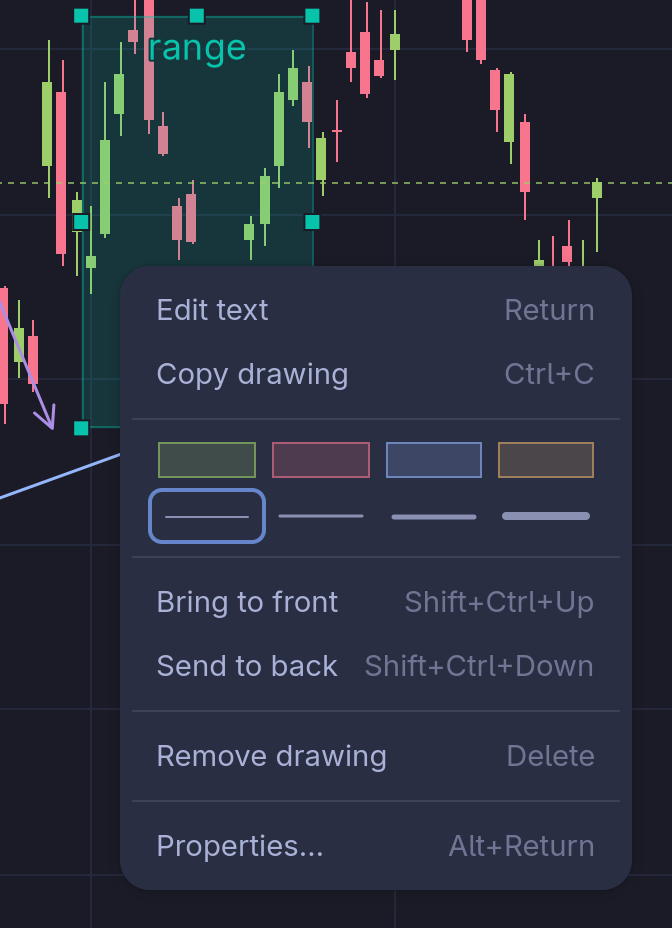
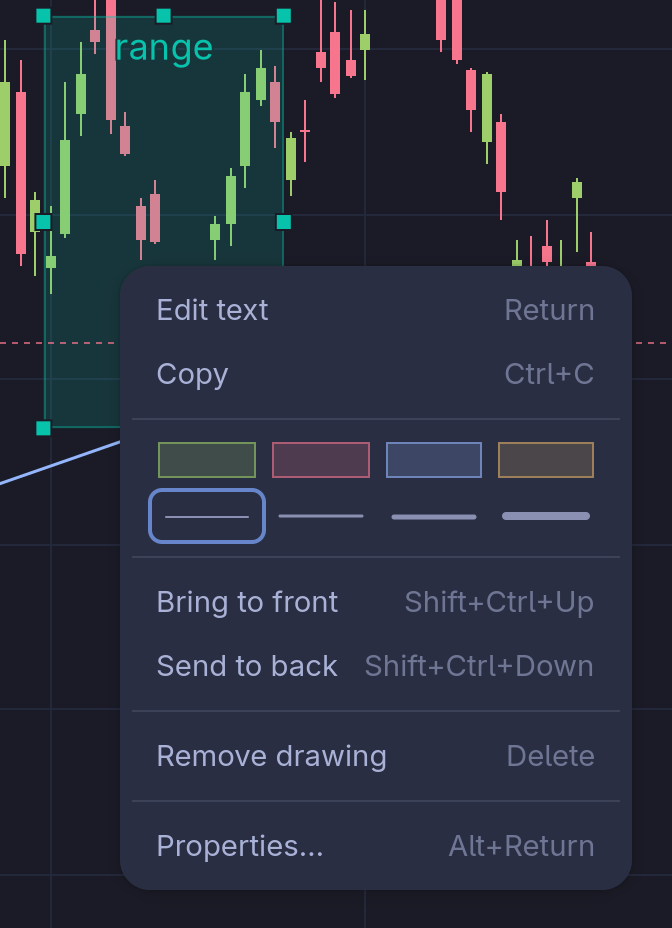
Show a selected indicator in the manual, and the drawing menu's Copy

diff --git a/site/manual/indicators.md b/site/manual/indicators.md
@@ -176,6 +176,23 @@ Click an indicator on the chart to select it: a line, a bar of the volume strip 
 
 A selected indicator glows in its own colour, under the lines and bars it draws, and each of its lines wears a dot at its latest value. A volume profile is outlined instead. Its name in the legend is at full strength with a ring round its dot, and a strip's name takes its colour.
 
+<!-- regenerate:
+theme: tokyo-night
+window: 2560x1440 @2, bin/headless-window (HOME sandboxed with ~/.local/share/omarchy/themes/tokyo-night copied in)
+state:
+  omacharts config set theme omarchy:tokyo-night      # then restart the app: a theme is read as it opens
+  omacharts chart set --template none --symbol SPY --resolution 1D
+  omacharts chart indicator add sma --period 50
+  omacharts chart indicator add bollinger
+  omacharts chart indicator add volume
+  key ctrl+b               # the rail away
+  click 300 262            # on the band's middle line
+  move 1270 300            # off the plot, so no crosshair
+capture: bin/headless-window shot /tmp/selected.png
+crop: 0,0,2440,1150 (resized to 2000 wide)
+-->
+{% include figure.html src="/assets/manual/indicators/selected-indicator.jpg" alt="SPY daily with a Bollinger band selected: its three lines glow in its colour, each with a dot at its latest value, and its legend dot is ringed" caption="A selected Bollinger band." %}
+
 | Gesture | Does |
 |---|---|
 | Click it, or its name in the legend | Selects it |
